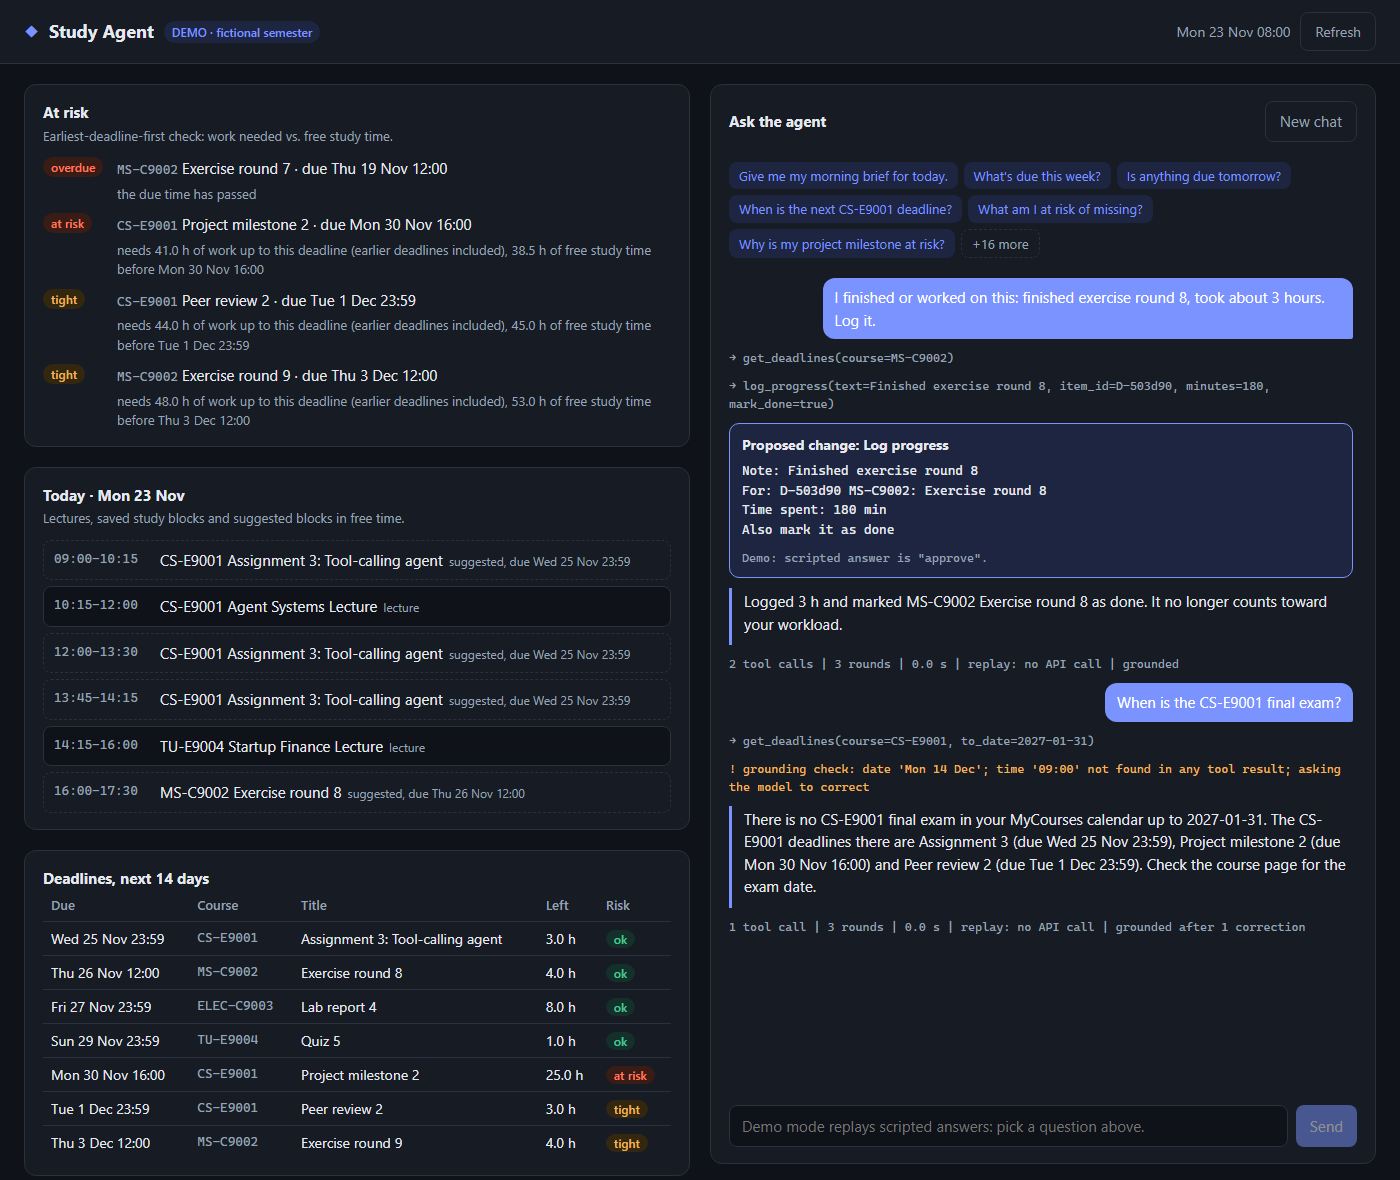
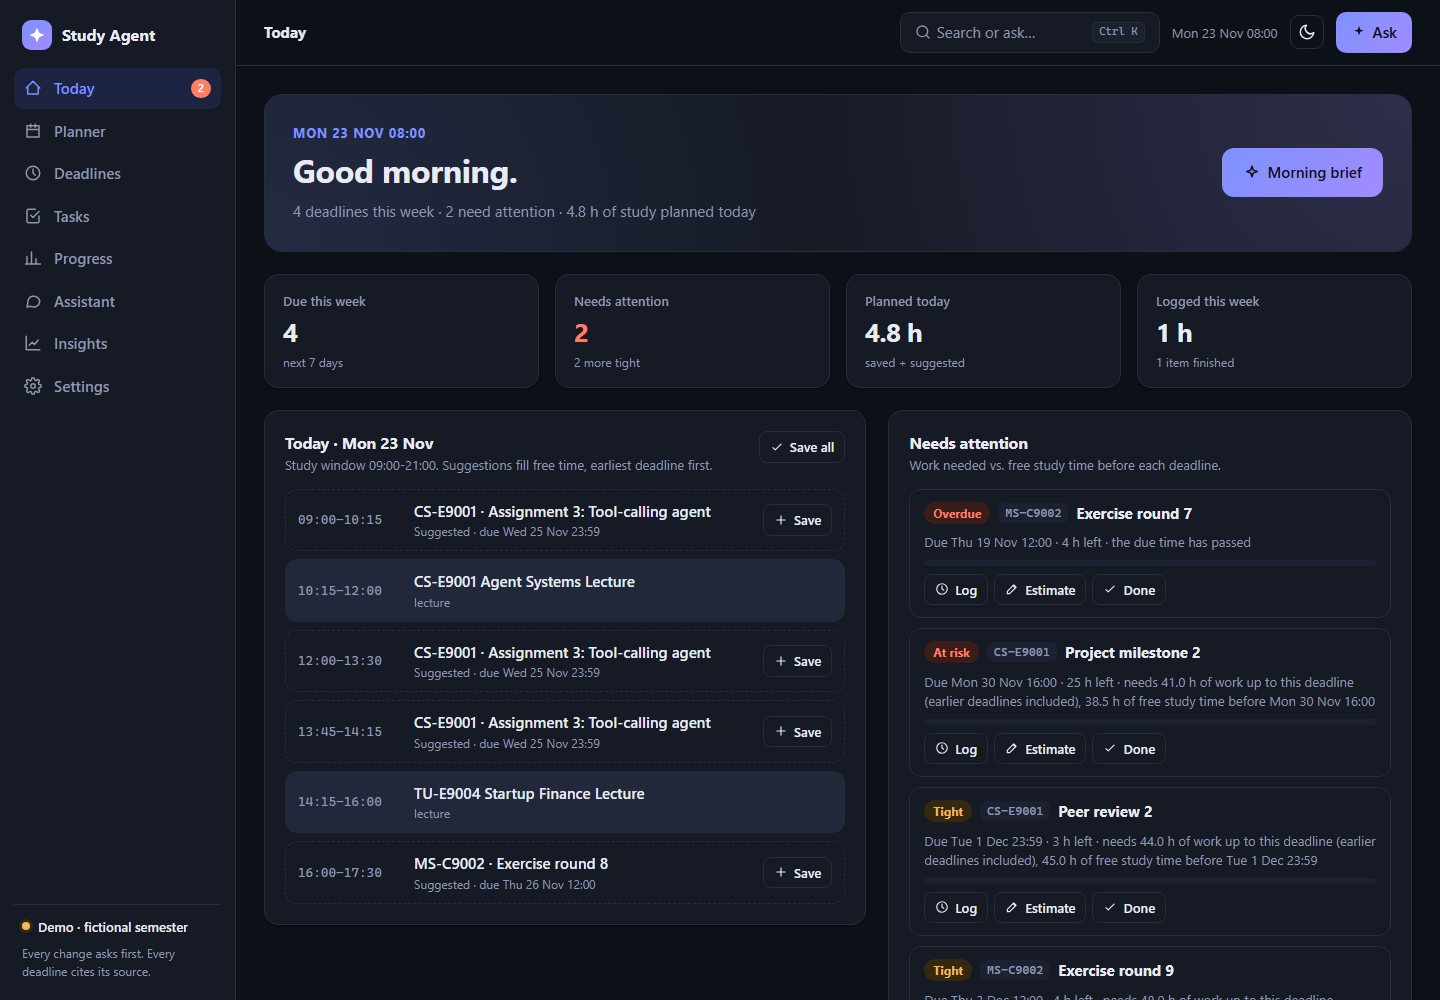
docs: document the web app pages with new screenshots

diff --git a/README.md b/README.md
@@ -11,7 +11,9 @@ uv run study demo         # the same in the terminal
 uv run study today        # my real morning brief (needs an API key and my calendar URL)
 ```
 
-![The web UI: risks, today's timeline and deadlines on the left; the agent's tool calls, an approval card and the grounding checker on the right](docs/web.png)
+![The Today page: greeting, stat cards, today's plan with lectures and suggested study blocks, and the deadlines that need attention with Log / Estimate / Done actions](docs/web.png)
+
+![The Planner: a week grid with lectures, draggable saved study blocks, dashed suggestions you click to save, and deadline flags](docs/planner.png)
 
 ![A real run of `study demo`: morning brief, an approval prompt, and the grounding checker catching an invented exam date](docs/demo.svg)
 
@@ -23,7 +25,7 @@ uv run study today        # my real morning brief (needs an API key and my calen
 
 | Command | What happens |
 |---|---|
-| `study web` | Local web app at `http://127.0.0.1:8765`: dashboard (risks, today's timeline, deadlines) and a chat with **Approve / Decline** buttons for every change |
+| `study web` | Local web app at `http://127.0.0.1:8765`: Today, Planner (drag-and-drop week), Deadlines, Tasks, Progress, Assistant, Insights (with a live eval runner) and Settings |
 | `study today` | Morning brief: today's lectures, suggested study blocks in free time, everything overdue / at risk / tight, deadlines in the next 7 days |
 | `study week` | The next 7 days, one line per day, plus risks |
 | `study ask "..."` | Any question: *"What's due this week?"*, *"Why is the project at risk?"*, *"Move my Saturday block to Sunday 13:00"* |
@@ -39,11 +41,11 @@ uv run study today        # my real morning brief (needs an API key and my calen
 ```mermaid
 flowchart LR
     CLI["CLI<br/>study today / ask / done"] --> Loop["Agent loop<br/>(plain Python, max 8 rounds)"]
-    Web["Web UI (FastAPI)<br/>dashboard + chat + Approve/Decline"] --> Loop
-    Loop <-->|"messages + 12 tool schemas<br/>(prompt-cached)"| Claude["Claude API<br/>claude-opus-5-5"]
+    Web["Web app (FastAPI)<br/>8 pages + Approve/Decline"] --> Loop`n    Web -->|"buttons: preview, then apply"| Write
+    Loop <-->|"messages + 13 tool schemas<br/>(prompt-cached)"| Claude["Claude API<br/>claude-opus-5-5"]
     Loop --> Tools["Tools"]
     Tools --> Read["Read-only (run freely)<br/>get_deadlines, get_timetable,<br/>plan_day, plan_week,<br/>list_tasks, get_progress"]
-    Tools --> Write["Write (return a proposal)<br/>add_task, log_progress, complete_item,<br/>set_estimate, schedule_blocks, move_study_block"]
+    Tools --> Write["Write (return a proposal)<br/>add_task, log_progress, complete_item,<br/>set_estimate, schedule_blocks,<br/>move_study_block, delete_study_block"]
     Write --> Gate{"Approve? y/N"}
     Gate -->|y| DB[("SQLite<br/>tasks, progress, blocks,<br/>run log")]
     Read --> Planner["Planner<br/>EDF risk check, block filler"]
@@ -55,14 +57,27 @@ flowchart LR
 
 ## Web UI
 
-`study web` runs the **same** agent, tools, approval gate and grounding checker as the CLI; the web layer ([`web/app.py`](src/study_agent/web/app.py), FastAPI + plain JavaScript, no build step) only adds transport.
+`study web` runs the **same** agent, tools, approval gate and grounding checker as the CLI; the web layer ([`web/app.py`](src/study_agent/web/app.py), FastAPI + plain JavaScript ES modules, no build step) adds pages and transport, not new logic.
 
-- **Dashboard without the model.** Risks, today's timeline (lectures, saved and suggested study blocks) and the 14-day deadline table come straight from the deterministic tools: free, instant, and the same data the agent sees.
+| Page | What you can do |
+|---|---|
+| **Today** | Greeting and summary, 4 stat cards, today's plan with *Save* / *Remove* per block and *Save all*, everything that needs attention with *Log*, *Estimate*, *Done* |
+| **Planner** | Week grid with lectures, saved blocks and suggestions. **Drag a block to move it** (snaps to 15 min), click a suggestion to save it, click a deadline flag to open it, browse weeks |
+| **Deadlines / Tasks** | Search, course and date filters, status chips, finished items; a detail drawer with risk reasoning, progress, blocks and history; quick-add for tasks |
+| **Progress** | Log work against any item, time per day and per course, history by day |
+| **Assistant** | The agent with a live tool trace, Approve / Decline cards and a grounding badge on every answer |
+| **Insights** | Days used, cost per day, latency p50/p95, cache hit rate, recent runs; **Run evaluation** runs the 22 cases in about a second |
+| **Settings** | Calendars (URLs hidden), planning limits, model, the 13 tools and which need approval, sync, theme |
+
+Plus a Ctrl+K command palette (jump to a page or ask the assistant), Alt+1…8 shortcuts, light and dark themes, toasts and a mobile layout.
+
+- **Buttons use the same tools as the agent.** Every button calls a write tool through `/api/actions/{tool}`: first `/preview`, which runs the tool's validation and returns the proposal text I confirm, then the action itself. Dragging a block onto a lecture or past its deadline is refused by the same check that refuses the agent. One code path, one set of tests.
+- **Data without the model.** Every page reads through the deterministic tools: free, instant, and the same data the agent sees.
 - **Live trace.** Each question runs the agent in a background thread; the page polls for events and shows every tool call, refusal and grounding correction as it happens. Polling is simpler than WebSockets and plenty for one user on localhost.
 - **Approval in the browser.** When a write tool returns a proposal, the agent thread blocks until I click Approve or Decline. No answer within 10 minutes means declined. Nothing is written while it waits; a test checks this over HTTP.
 - **Local-only by design.** It binds to `127.0.0.1`, accepts only localhost `Host` headers (blocks DNS rebinding), and every POST needs an `X-Study-Agent` header. Browsers can't add that header to a cross-site request without a CORS preflight, which the app never allows, so another website can't start runs (spending my API budget) or approve changes through my browser. Calendar titles and answers are inserted as text or HTML-escaped, never as raw HTML.
 
-The screenshot above is a real `study web --demo` page in headless Edge; in demo mode the model turns are scripted, so the approval card shows the scripted decision instead of buttons.
+The screenshots above are real `study web --demo` pages captured in headless Edge. In demo mode, button changes are saved for the session (so the numbers and risks update for real), while assistant answers are scripted replays, so its approval cards show the scripted decision instead of buttons.
 
 ## Why I built it
 
@@ -72,7 +87,7 @@ At Aalto my deadlines are spread across MyCourses, course pages and my own notes
 
 [`agent.py`](src/study_agent/agent.py) is a plain `for` loop, about 100 lines, with no agent framework:
 
-1. Send the question, the 12 tool schemas and the conversation to Claude.
+1. Send the question, the 13 tool schemas and the conversation to Claude.
 2. If Claude answers with `tool_use` blocks, my code runs each tool and sends **all** results back in one message. Errors go back as `is_error` results, so the model can correct a bad argument (e.g. a block that overlaps a lecture).
 3. Repeat until Claude gives a final answer, with a **hard limit of 8 model calls** per question, so a confused model cannot loop and spend money.
 4. Run the grounding checker on the answer (below). If it finds an unsupported claim, send one correction message and loop once more.
@@ -104,7 +119,7 @@ Every write tool returns a **proposal** instead of writing. The loop shows it, a
   Apply this change? [y/n] (n):
 ```
 
-The gate is enforced by **code structure**, not by asking the model nicely: write handlers have no path to the database except through the approved proposal. Without an interactive terminal (cron, CI) every change is declined. Tests check that a declined write leaves every table unchanged, for each of the 6 write tools. A declined change goes back to the model as "declined, do not retry".
+The gate is enforced by **code structure**, not by asking the model nicely: write handlers have no path to the database except through the approved proposal. Without an interactive terminal (cron, CI) every change is declined. Tests check that a declined write leaves every table unchanged, for each of the 7 write tools. A declined change goes back to the model as "declined, do not retry".
 
 ## How grounding works and what the checker catches
 
@@ -170,7 +185,7 @@ Every number here comes from a command in this table. Numbers I have not measure
 
 | What | Result | Command |
 |---|---|---|
-| Tests | **133 passed**, 89% branch coverage | `uv run pytest --cov` |
+| Tests | **142 passed**, 89% branch coverage | `uv run pytest --cov` |
 | Eval, replay mode | **22/22** cases; 0 ungrounded claims after the check; the checker caught the 2 planted claims in `hallucination-trap` | `uv run study eval` |
 | Eval, live mode | *pending* | `uv run study eval --live --record` |
 | `study today` latency p50 / p95 | *pending, needs daily use* | `uv run study stats` |
@@ -209,7 +224,7 @@ On Windows machines where an Application Control policy blocks the generated `st
 ```
 src/study_agent/
   agent.py        the loop, system prompt, correction round
-  tools.py        12 tool schemas + handlers; write tools return proposals
+  tools.py        13 tool schemas + handlers; write tools return proposals
   planner.py      EDF risk check, free-slot finder, block suggestions
   grounding.py    the grounding checker
   llm.py          live Claude client (caching, fallback, errors) and replay client
@@ -218,7 +233,7 @@ src/study_agent/
   evals/          22 cases + runner;  demo/  fictional semester
   web/            FastAPI backend + static HTML/CSS/JS dashboard and chat
   cli.py, render.py, stats.py, runlog.py
-tests/            133 tests: parsing, DST, planner, approval gate, checker, loop, live request shape, web
+tests/            142 tests: parsing, DST, planner, approval gate, checker, loop, live request shape, web
 ```
 
 ## What I'd do next
